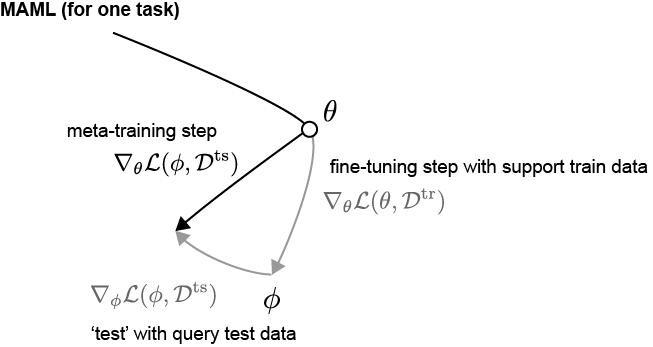
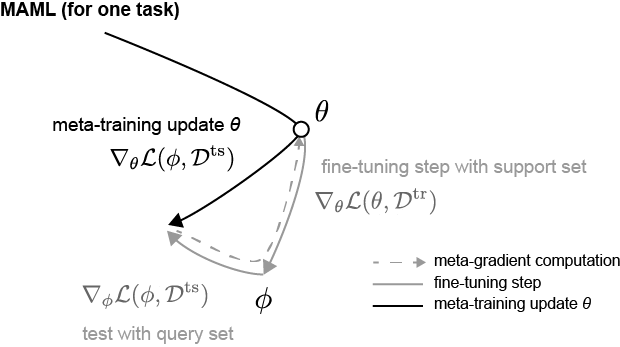
add new schematics to few shot post

diff --git a/_posts/2021-08-07-few_shot_learning.md b/_posts/2021-08-07-few_shot_learning.md
@@ -103,6 +103,12 @@ $$
 \nabla_{\theta} \mathcal{L}(\phi, \mathcal{D}^{\text{ts}}) \approx \nabla_{\phi} \mathcal{L}(\phi, \mathcal{D}^{\text{ts}})
 $$
 
+This can be illustrated visually as follows,
+
+![](/images/fewshot_fomaml_1task.png){: .align-center}
+
+Note we are not performing a meta-gradient computation by unrolling all the way up the computation graph, but instead we are using the first-order approximation $\nabla_{\phi} \mathcal{L}(\phi, \mathcal{D}^{\text{ts}})$ as gradient for updating $\theta$.
+
 ### Reptile
 Reptile (by OpenAI)[^cite_reptile] is an alternative approach with performance on-par with MAML, but more computationally and memory efficient than MAML as there is no explicit calculations of the second derivatives.
 
@@ -128,7 +134,11 @@ $$
 
 where $\phi_i = U_{\tau_i}^k (\theta, \mathcal{D}^{\text{tr}})$
 
-In the vanilla stochastic gradient descent, the parameters are updated after each gradient step ($U^1$, where $k=1$). The key distinction that differentiates Reptile from it being just a regular stochastic gradient descent averaged across different tasks is the estimation of $\phi_i$ over $k>1$ steps and using $\phi_i - \theta$ as the gradient for updating $\theta$. The authors Nichol et al. have showed that when $k>1$, this allows the algorithm to pick up on the higher-order derivatives, and the consequent behavior is similar to MAML and distinctly different from when $k=1$.
+The parameters path can be schematically visualized as,
+
+![](/images/fewshot_reptile.png){: .align-center}
+
+The key distinction that differentiates Reptile from it being just a regular stochastic gradient descent averaged across different tasks is the estimation of $\phi_i$ over $k>1$ steps and using $\phi_i - \theta$ as the gradient for updating $\theta$. In the vanilla stochastic gradient descent, the parameters are updated after each gradient step ($U^1$, where $k=1$). The authors Nichol et al. have showed that when $k>1$, this allows the algorithm to pick up on the higher-order derivatives, and the consequent behavior is similar to MAML and distinctly different from when $k=1$.
 
 ## Resources
 - [Finn (2020) CS330 lectures](https://cs330.stanford.edu/#topics)
